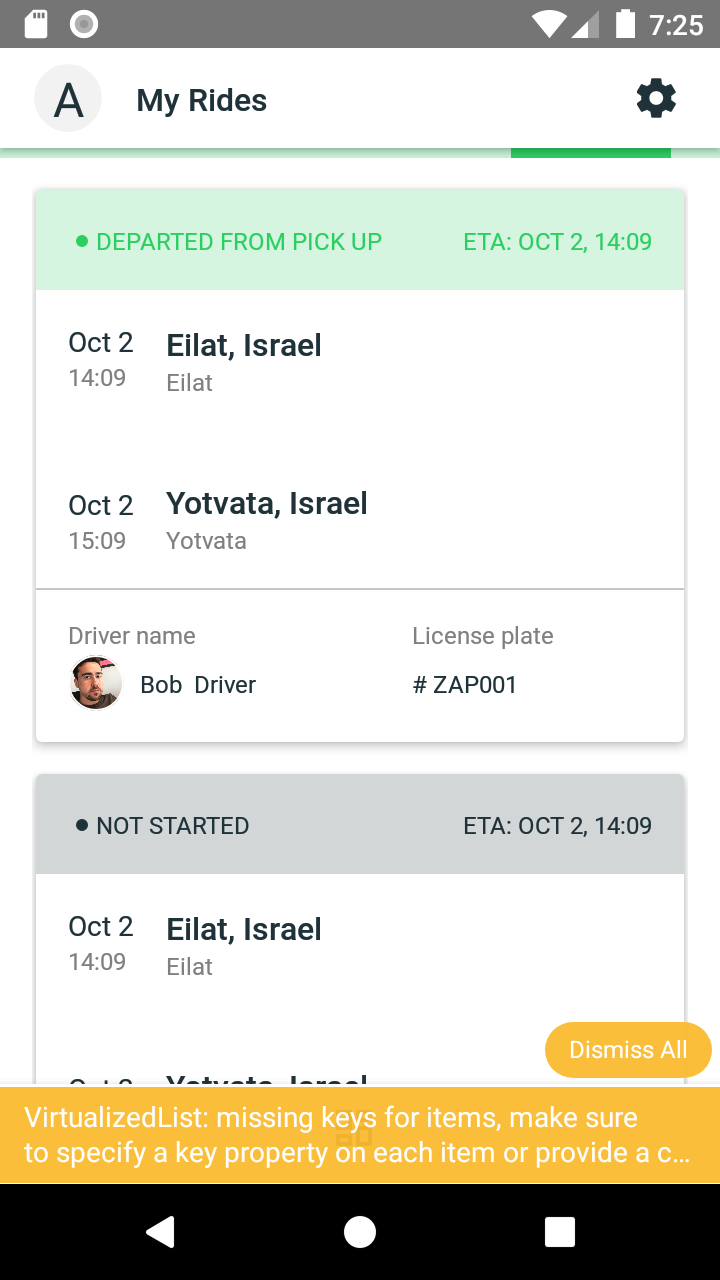
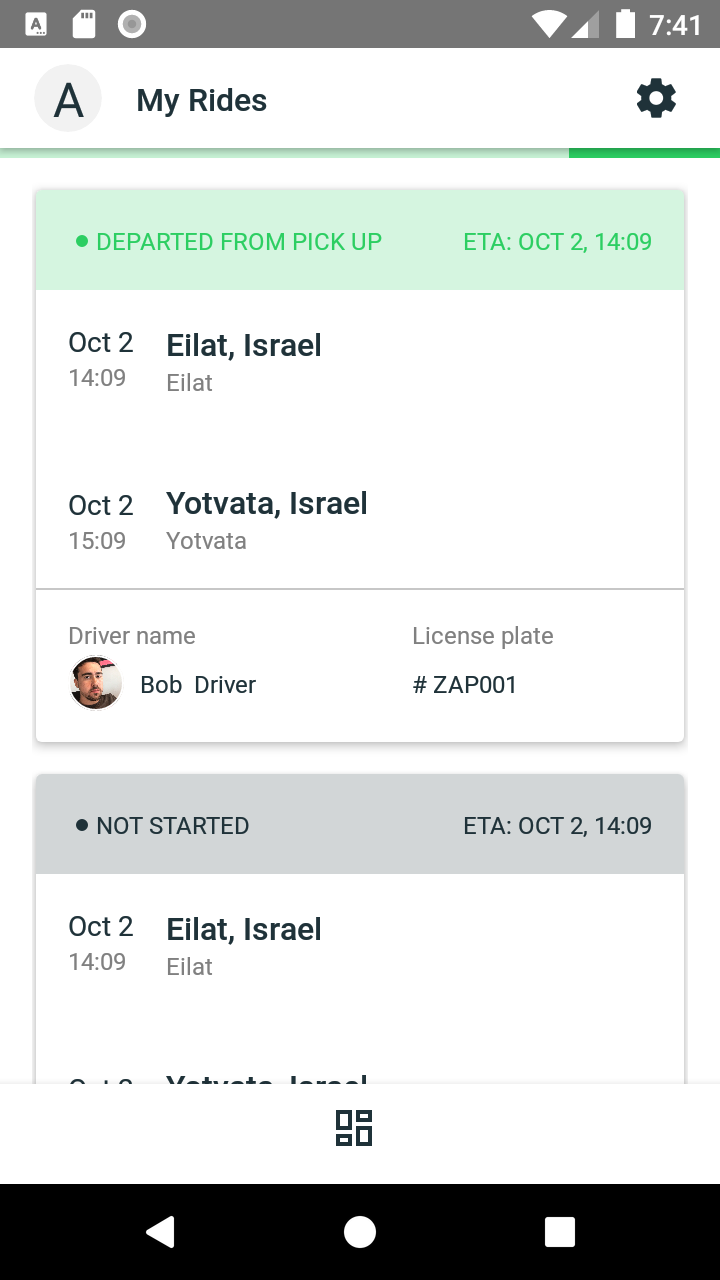
feat(progressbar): ✨  change screenShots default indicator margin - 0 [#168633497]

diff --git a/src/Components/ProgressBar/ProgressBar.tsx b/src/Components/ProgressBar/ProgressBar.tsx
@@ -22,7 +22,7 @@ class ProgressBar extends React.PureComponent<IProps, IState> {
   };
 
   public componentWillUnmount = () => {
-    this.animateIndicatorMargin(0).stop();
+    this.animateIndicatorMargin().stop();
   };
   render() {
     return (
@@ -46,7 +46,7 @@ class ProgressBar extends React.PureComponent<IProps, IState> {
       </View>
     );
   }
-  private animateIndicatorMargin = (windowWidth: number) =>
+  private animateIndicatorMargin = (windowWidth: number = 0) =>
     Animated.loop(
       Animated.timing(this.state.indicatorMargin, {
         toValue: windowWidth,
